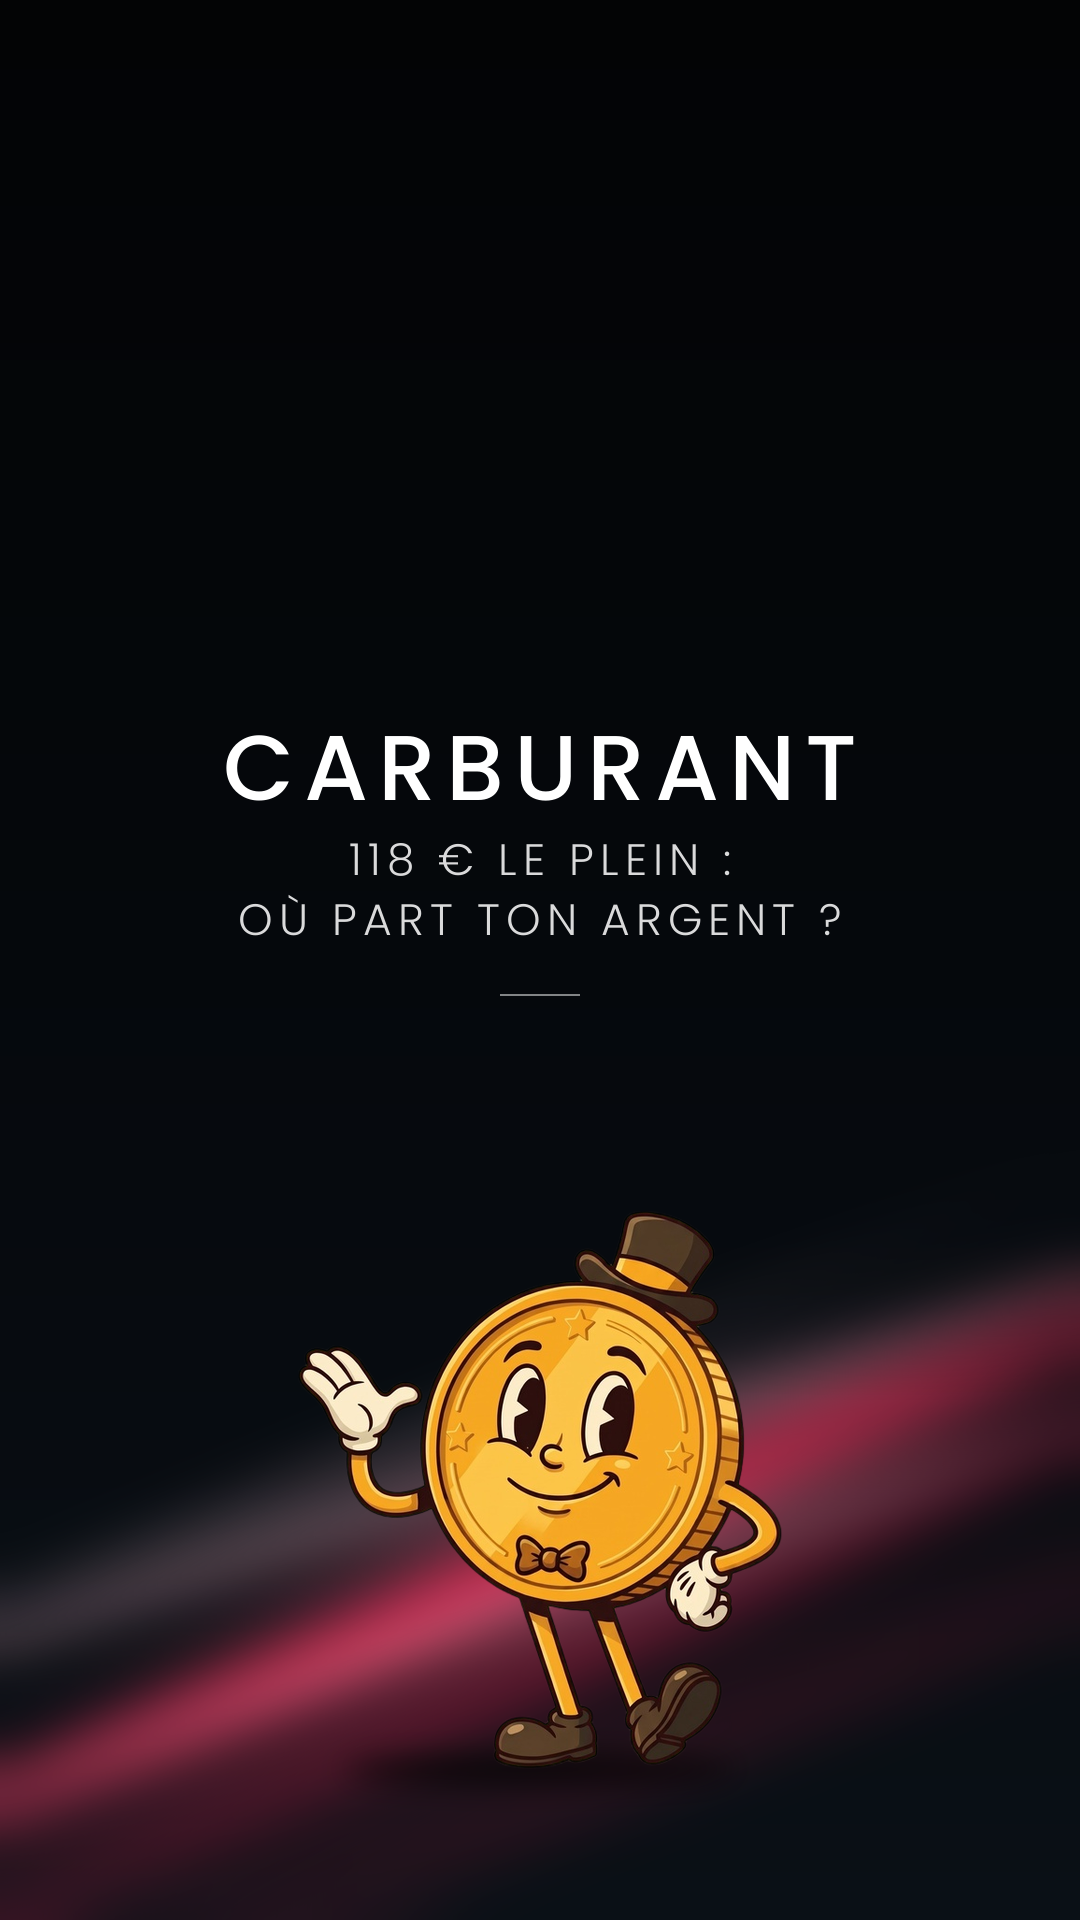
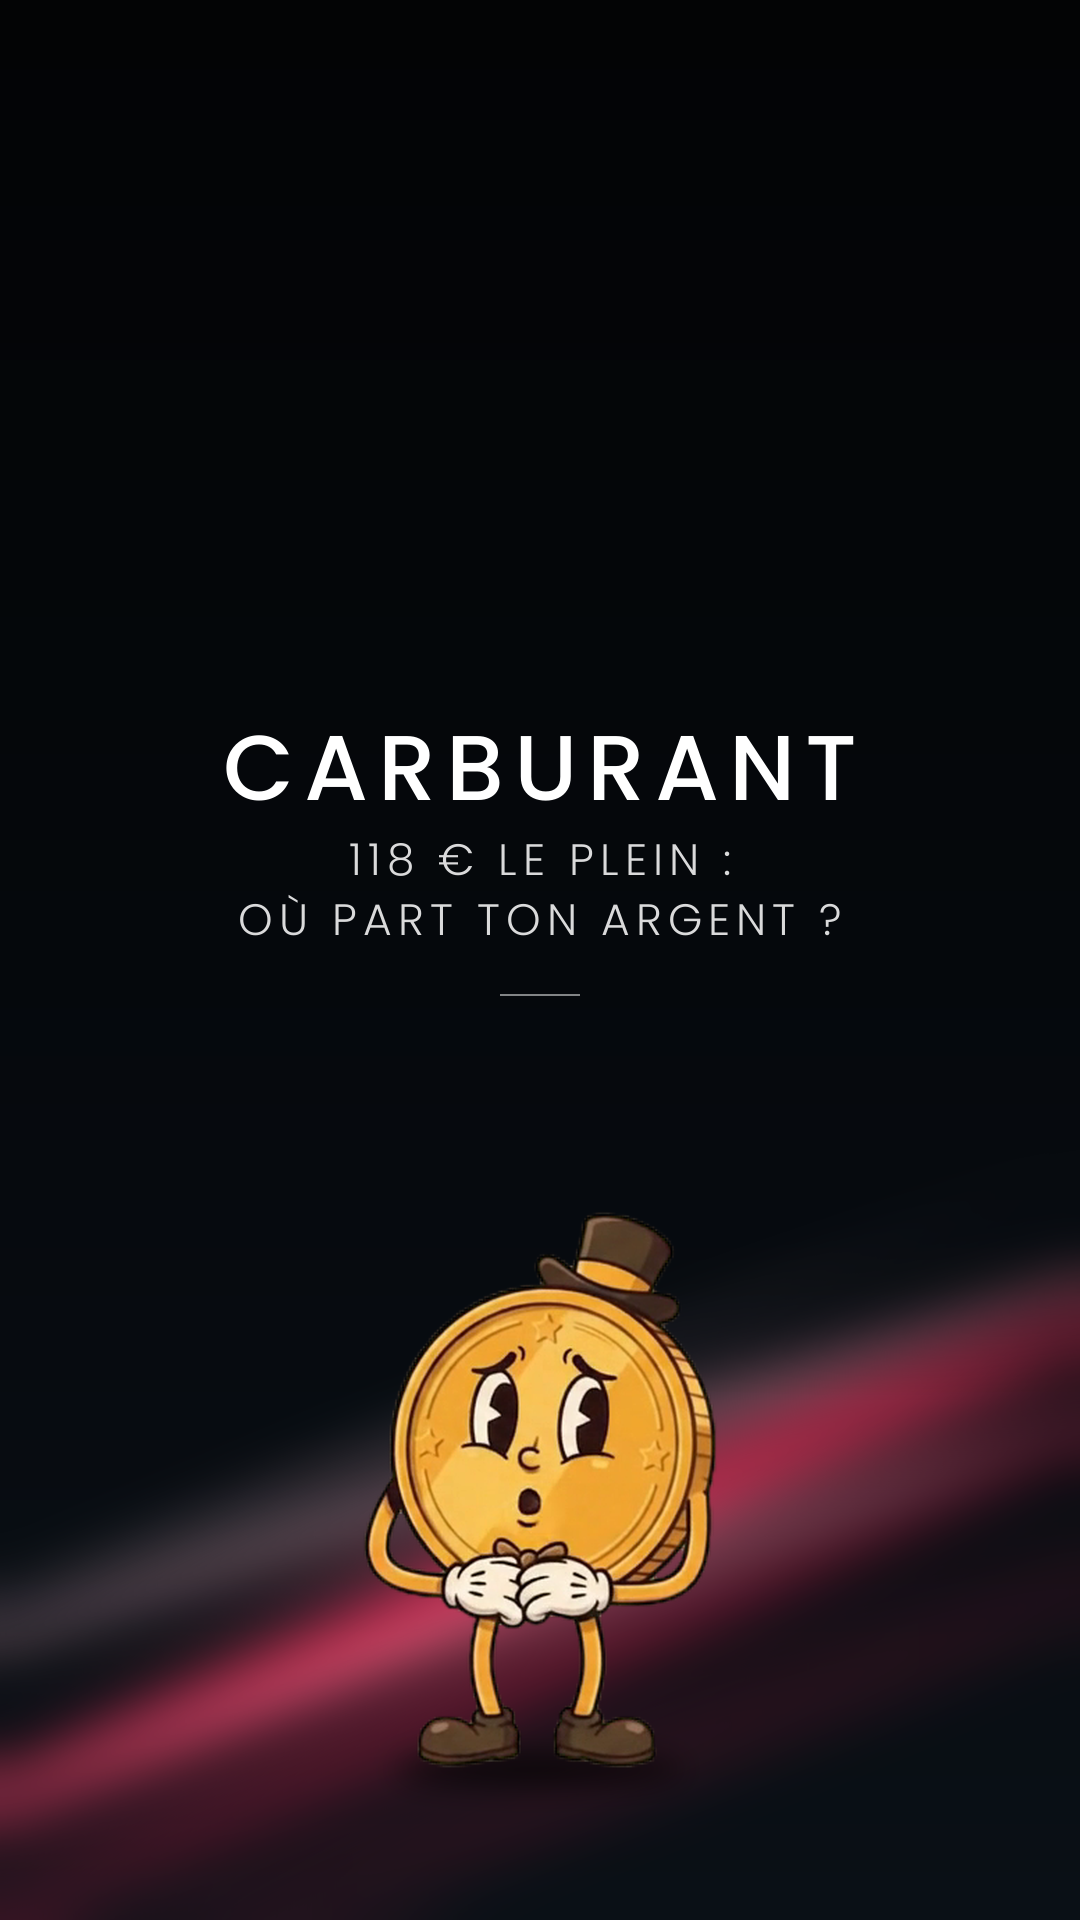
Carburant : couverture avec Mister Coin inquiet et étonné
Claude-Session: https://claude.ai/code/session_01VFT2ZKYV9NwmFvCsfcTKi7

Changed region(s): [[0.275, 0.625, 0.7333, 0.9375]]

diff --git a/episodes/2026-10-29_carburant/couverture.py b/episodes/2026-10-29_carburant/couverture.py
@@ -1,5 +1,5 @@
 """Couverture Carburant, DA historique de la ligne fil rouge : fond noir, rubans de lumière aux couleurs du sujet (rouge néon, rose, bordeaux),
-nom épuré + « Et toi, tu achètes ? », Mister Coin classique (image de référence Gemini détourée). Sujet « utile » : pas de « Et toi, tu achètes ? »."""
+nom épuré + « Et toi, tu achètes ? », Mister Coin classique inquiet et étonné (image 48 du clip parle_inquiet, détourée). Sujet « utile » : pas de « Et toi, tu achètes ? »."""
 import cairo, math, numpy as np, sys, os
 HERE = os.path.dirname(os.path.abspath(__file__)); ROOT = os.path.abspath(os.path.join(HERE, '..', '..'))
 sys.path.insert(0, f'{ROOT}/lib'); sys.path.insert(0, f'{ROOT}/mister_coin')
@@ -25,7 +25,7 @@ for slot, name in ((False, 'couverture.png'), (True, 'couverture_emplacement_log
     path = f'{HERE}/{name}'; cards.card("CARBURANT", slot, path, sub=("118 € LE PLEIN :", "OÙ PART TON ARGENT ?"))
     if slot: continue
     im = Image.open(path).convert('RGBA')
-    a, m = VC._key(np.asarray(Image.open(f"{ROOT}/mister_coin/veo/classique_reference_marges_16x9.jpg").convert("RGB")))
+    a, m = VC._key(np.asarray(Image.open(f"{HERE}/decors/coin_inquiet_couverture.png").convert("RGB")))
     ch = Image.fromarray(np.clip(a, 0, 255).astype(np.uint8)).convert("RGBA"); ch.putalpha(Image.fromarray((m*255).astype(np.uint8))); ch = ch.crop(ch.getbbox())
     h = 560; ch = ch.resize((int(ch.width*h/ch.height), h), Image.LANCZOS); cx, feet = 540, 1770
     sh = Image.new('L', (W, H), 0); ImageDraw.Draw(sh).ellipse((cx-ch.width*.4, feet-16, cx+ch.width*.4, feet+14), fill=170)
